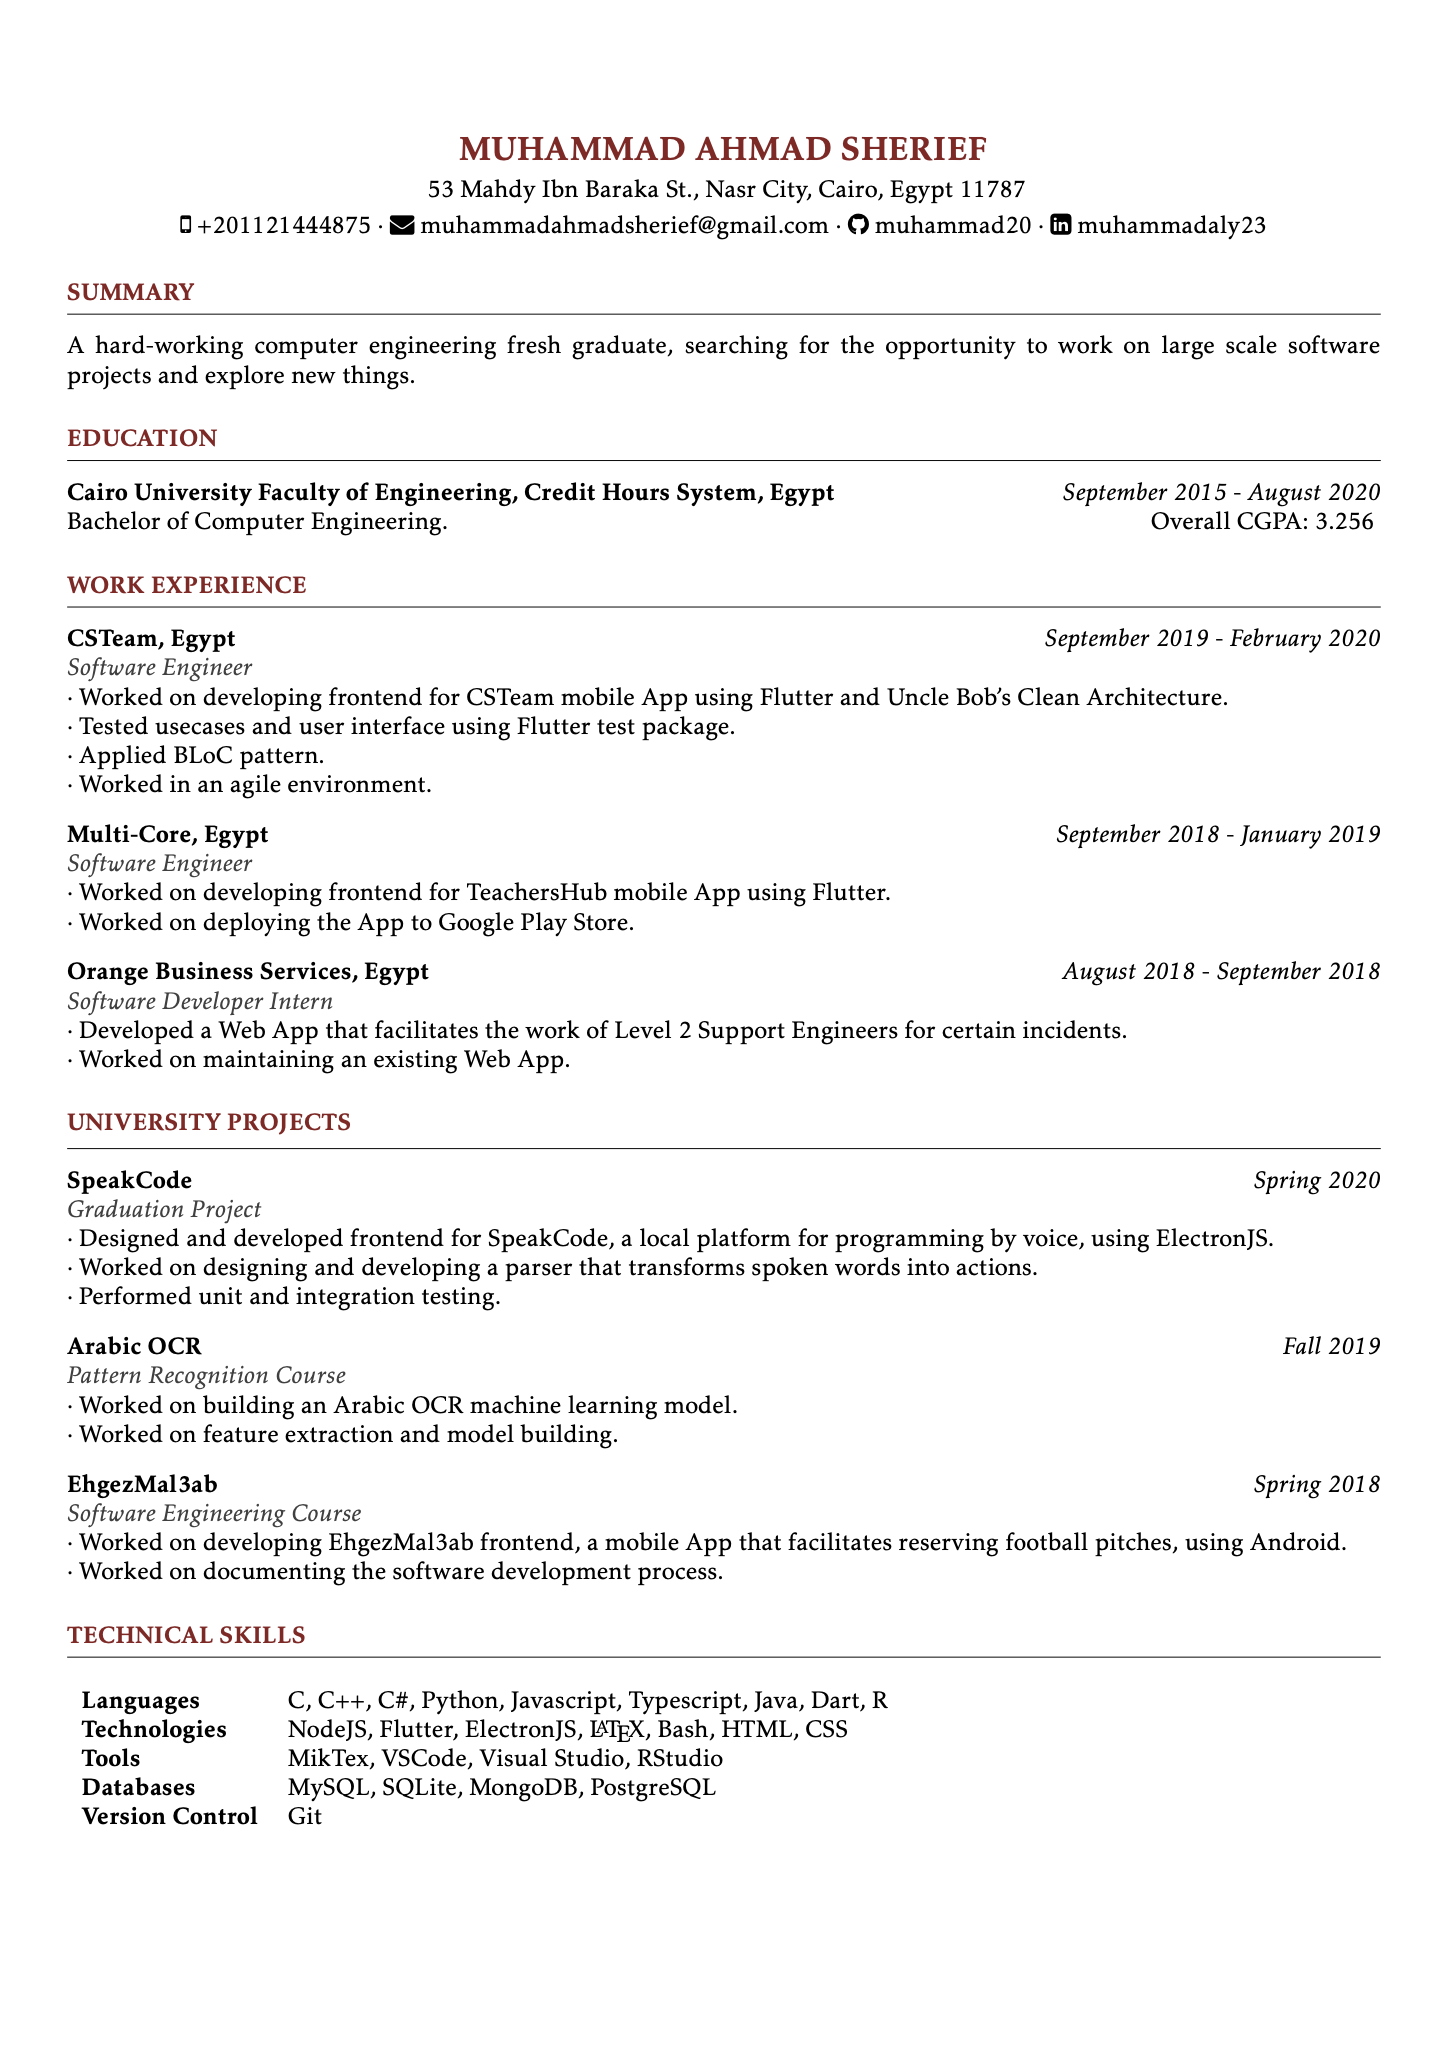
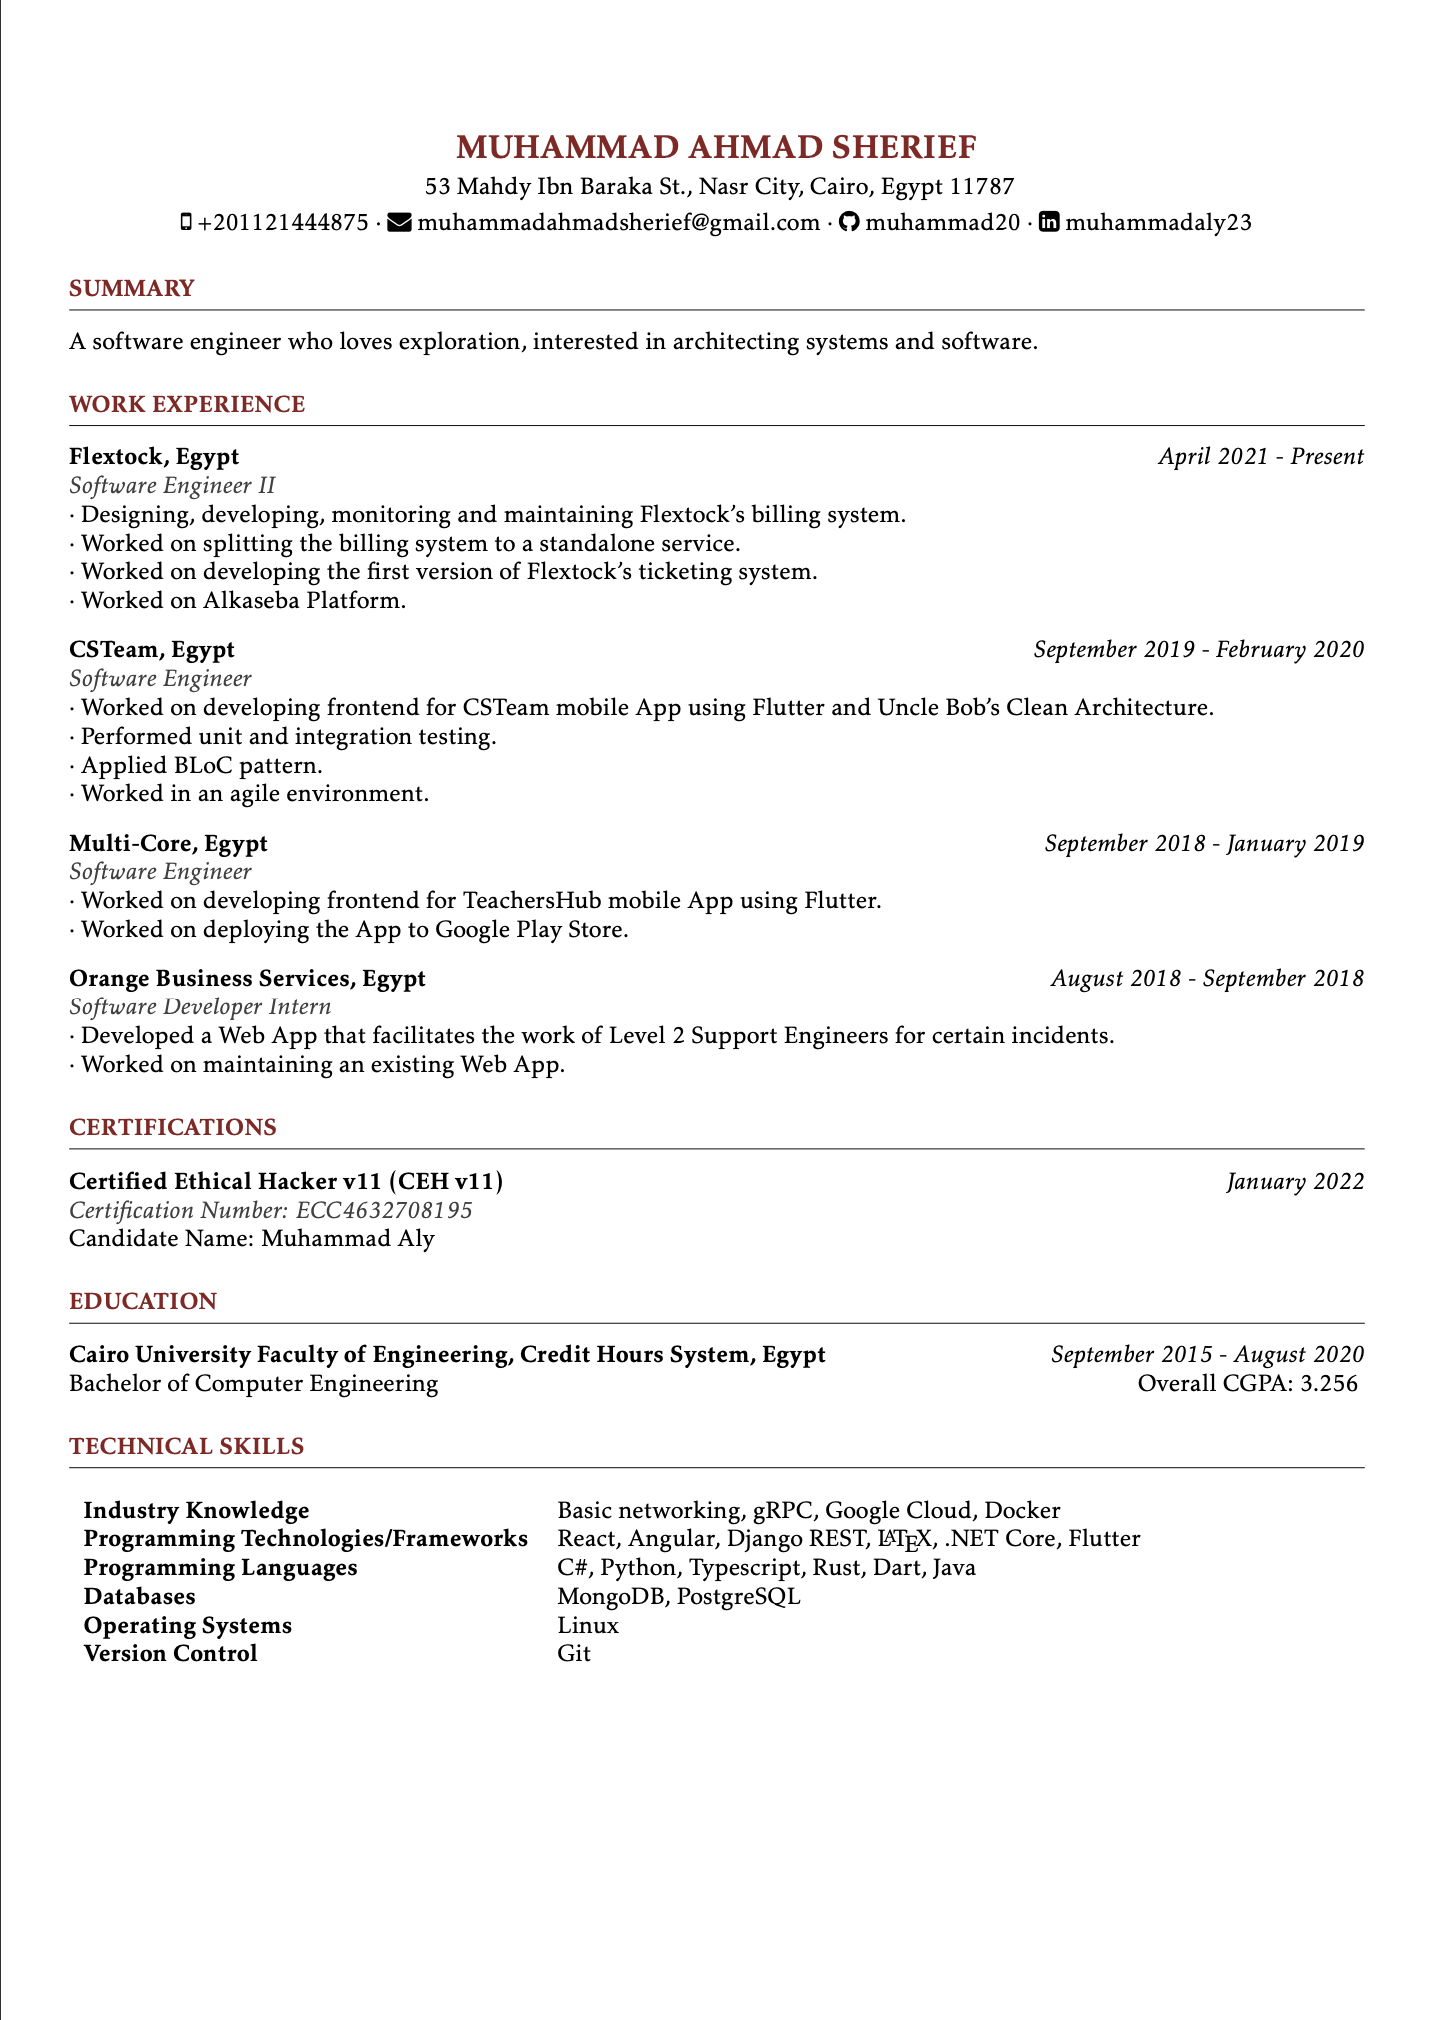
being a little more precise

diff --git a/experience.tex b/experience.tex
@@ -5,9 +5,9 @@
 \vspace{3mm}
 
 \begin{verbose}{Flextock, Egypt}{April 2021 - Present}{Software Engineer II}
-    \noindent $\cdot$ Developing and maintaining Flextock's billing system.
+    \noindent $\cdot$ Designing, developing, monitoring and maintaining Flextock's billing system.
 
-    \noindent $\cdot$ Worked on splitting the billing system to a stadalone service.
+    \noindent $\cdot$ Worked on splitting the billing system to a standalone service.
 
     \noindent $\cdot$ Worked on developing the first version of Flextock's ticketing system.
 

diff --git a/skills.tex b/skills.tex
@@ -5,7 +5,7 @@
 
 \begin{table}[h]
 \begin{tabular}{ >{\bfseries} l l }
-    Industry Knowledge & agile methodologies, basic networking, gRPC, Google Cloud, Docker \\
+    Industry Knowledge & Basic networking, gRPC, Google Cloud, Docker \\
     Programming Technologies/Frameworks & React, Angular, Django REST, \LaTeX, .NET Core, Flutter\\
     Programming Languages & C\#, Python, Typescript, Rust, Dart, Java\\
     Databases & MongoDB, PostgreSQL\\

diff --git a/education.tex b/education.tex
@@ -4,6 +4,6 @@
 \hrule
 \vspace{3mm}
 \noindent {\bf Cairo University Faculty of Engineering, Credit Hours System, Egypt} \hfill {\em September 2015 - August 2020} 
-\\ Bachelor of Computer Engineering.\hfill { Overall CGPA: 3.256 }
+\\ Bachelor of Computer Engineering\hfill { Overall CGPA: 3.256 }
 
 

diff --git a/certifications.tex b/certifications.tex
@@ -4,5 +4,7 @@
 \hrule
 \vspace{3mm}
 
-\begin{verbose}{Certified Ethical Hacker v11 (CEH v11)}{January 2022}{}
+\begin{verbose}{Certified Ethical Hacker v11 (CEH v11)}{January 2022}{Certification Number: ECC4632708195}
+    \noindent Candidate Name: Muhammad Aly
 \end{verbose}
+

diff --git a/projects.tex b/projects.tex
@@ -9,7 +9,7 @@
 
     \noindent $\cdot$ Worked on designing and developing a parser that transforms spoken words into commands.
 
-    \noindent $\cdot$ Performed unit and integration testing.
+    \noindent $\cdot$ Wrote unit and integration tests.
 \end{verbose}
 
 \vspace{3mm}
